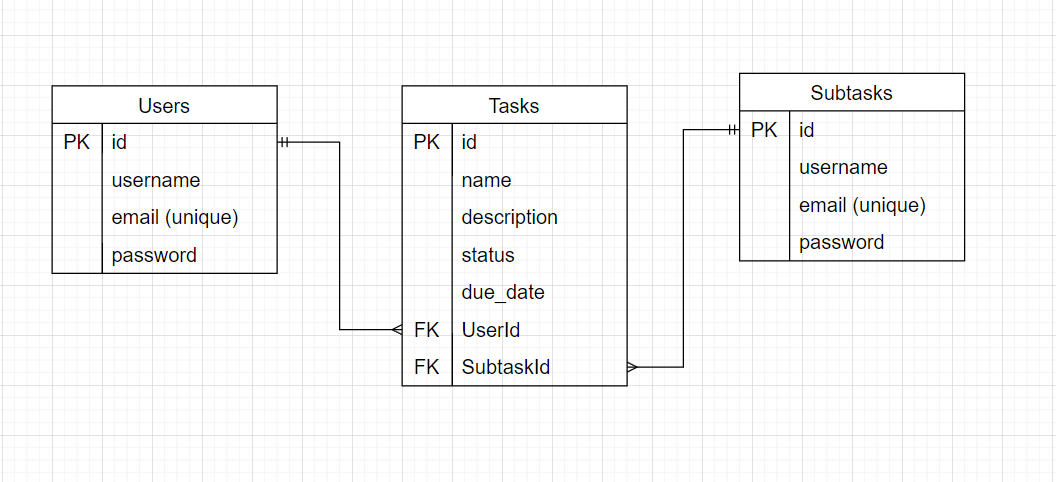
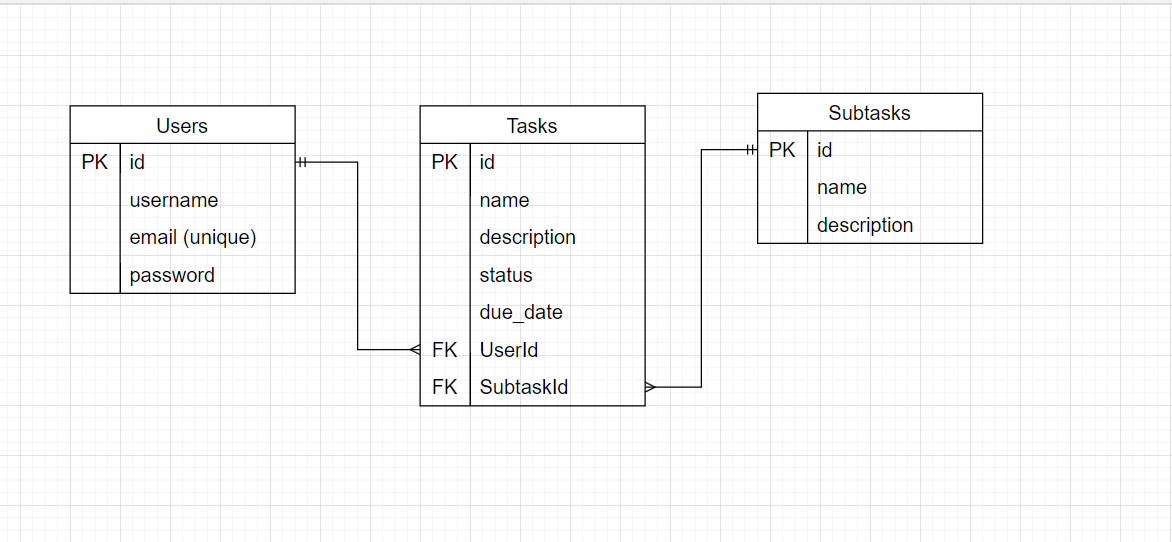
feat: add readme and replace images erd

diff --git a/server/readme.md b/server/readme.md
@@ -1,0 +1,12 @@
+# Server
+
+## install
+
+npm i
+
+### step
+
+- config your db or create database name "sprintasia"
+- npx sequelize db:migrate
+- npx sequelize db:seed:all
+- npm start
